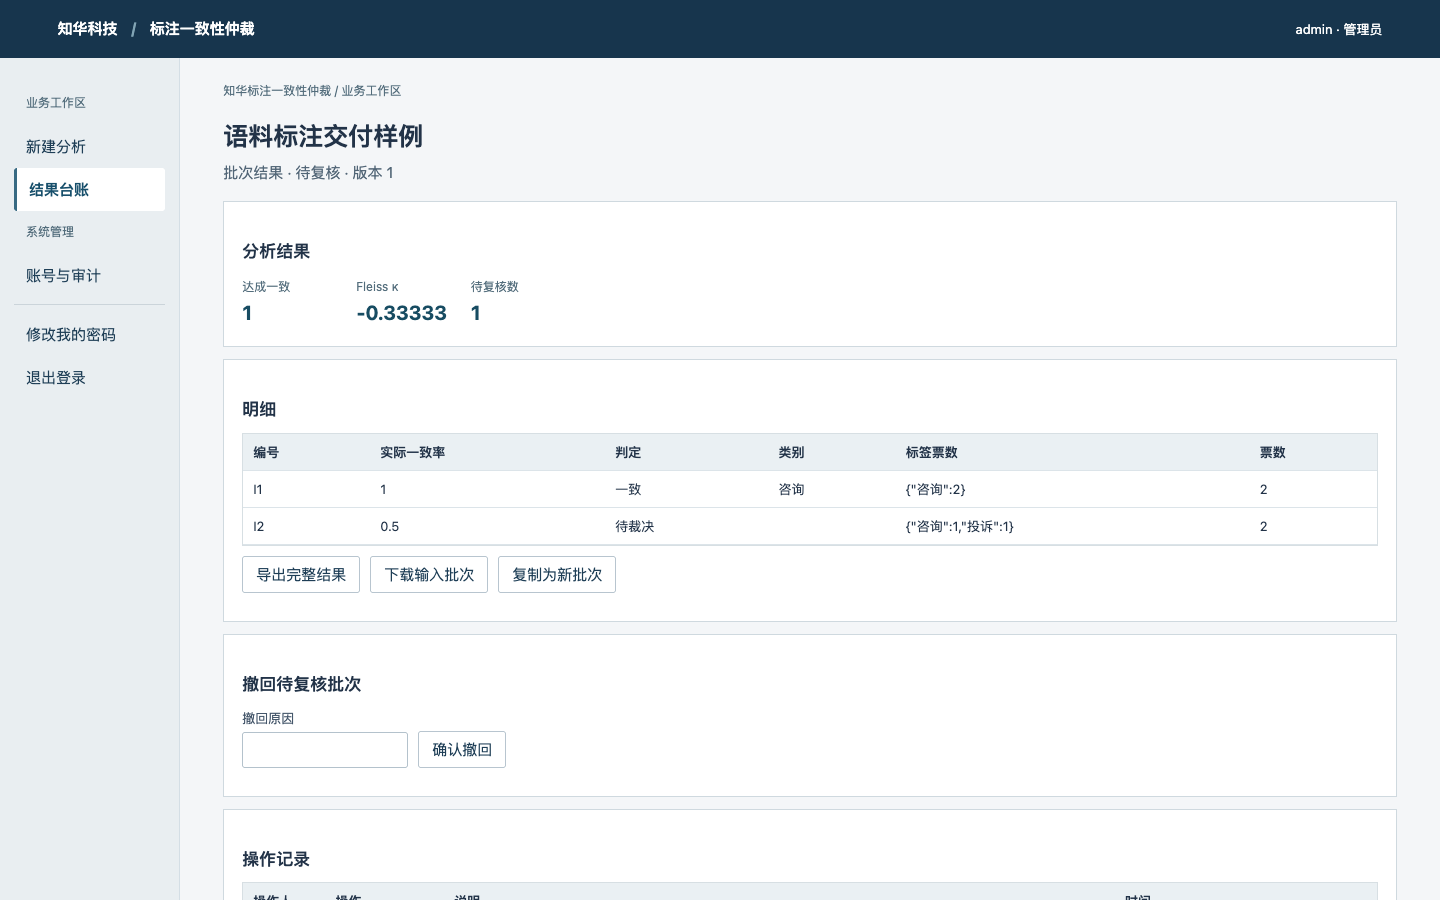
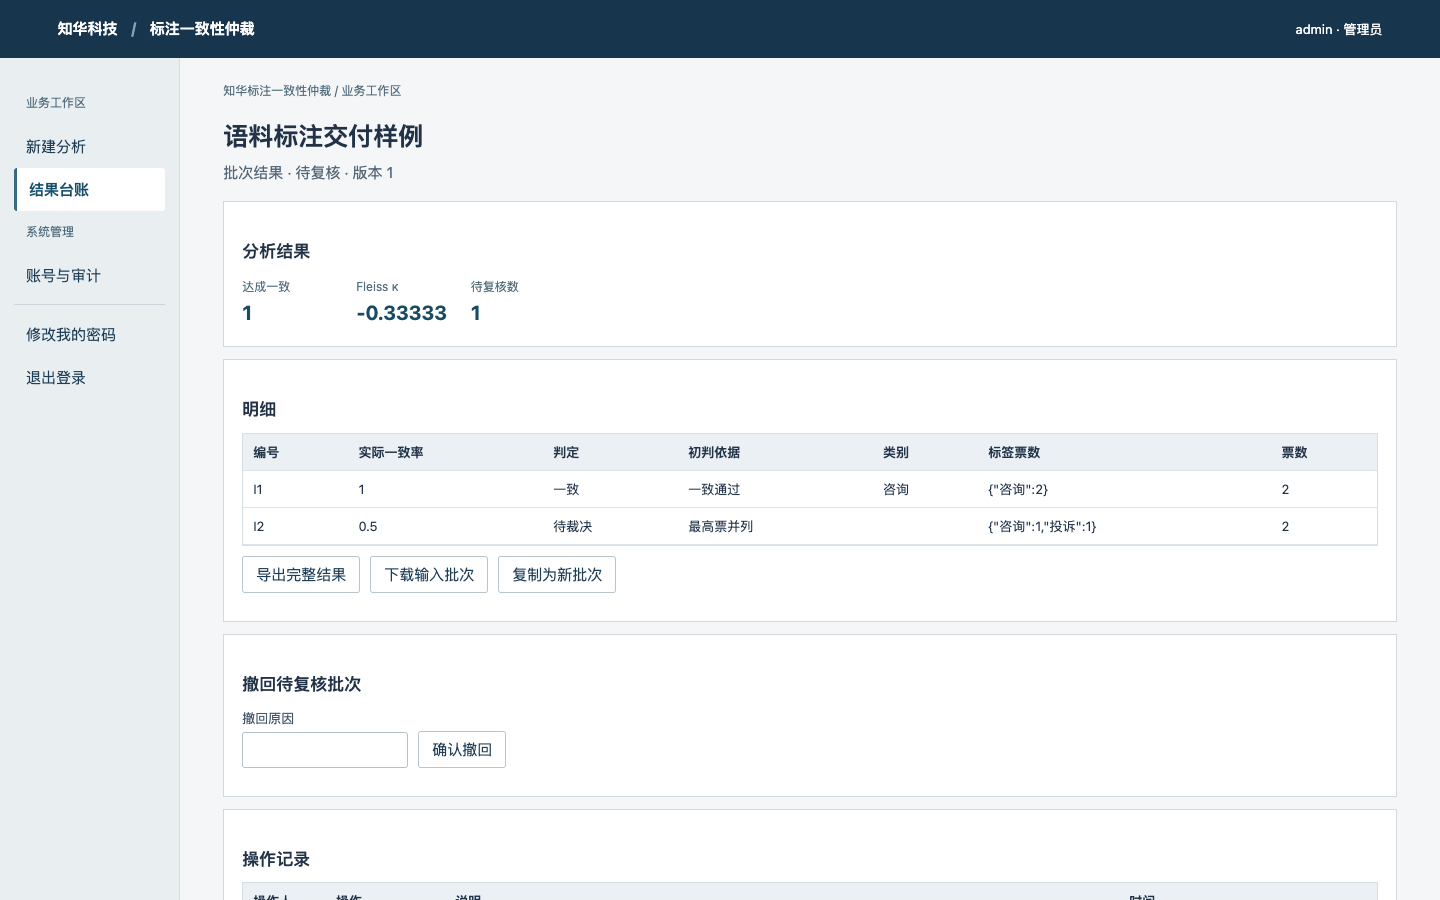
feat: add domain acceptance evidence and local startup diagnostics

diff --git a/frontend/app.js b/frontend/app.js
@@ -56,6 +56,7 @@ const labels = {
   context: "编排正文",
 };
 const resultLabels = {
+  initialReason: "初判依据",
   ...labels,
   ...{
     knownTokens: "词表命中数",
@@ -112,6 +113,10 @@ const resultLabels = {
   },
 };
 const choices = {
+  TOO_FEW: "票数不足",
+  TIE: "最高票并列",
+  BELOW_THRESHOLD: "未达一致率",
+  AGREED: "一致通过",
   KEEP: "保留",
   REVIEW_DUPLICATE: "待查重",
   CONSENSUS: "一致",
@@ -270,7 +275,7 @@ function table(parent, keys, rows, action) {
     for (const k of keys)
       line.insertCell().textContent =
         typeof row[k] === "string" &&
-        ["decision", "action", "reason", "split"].includes(k)
+        ["decision", "action", "reason", "split","reviewReason","capacityStatus","initialReason"].includes(k)
           ? choices[row[k]] || row[k]
           : fmt(row[k]);
     if (action) line.insertCell().append(action(row));

diff --git a/scripts/doctor.py b/scripts/doctor.py
@@ -1,0 +1,63 @@
+#!/usr/bin/env python3
+"""上海如静知华信息科技有限公司 · https://www.zhuatech.cn/
+商业授权或定制开发请微信添加微信号zhuatech或zhuatech2进行咨询。
+Optional preflight for a direct local launch; never initializes a database or changes persistent files.
+"""
+import os, re, shutil, socket, subprocess, sys
+from pathlib import Path
+
+ROOT = Path(__file__).resolve().parents[1]
+
+
+def main(args):
+    """Direct local launch preflight. 上海如静知华信息科技有限公司 · https://www.zhuatech.cn/
+    商业授权或定制开发请微信添加微信号zhuatech或zhuatech2进行咨询。
+    """
+    if args not in ([], ["--build"], ["--no-build"]):
+        print("用法：python3 scripts/doctor.py [--build|--no-build]")
+        return 2
+    jar = ROOT / "backend/target/app.jar"
+    build = args == ["--build"] or (not args and ((ROOT/".git").exists() or not jar.is_file()))
+    errors = []
+    home = os.environ.get("JAVA_HOME")
+    suffix = ".exe" if os.name == "nt" else ""
+    java = str(Path(home)/"bin"/("java"+suffix)) if home else shutil.which("java")
+    try:
+        command = subprocess.run([java or "java", "-XshowSettings:properties", "-version"], capture_output=True, text=True, timeout=12)
+        found = re.search(r"java\.specification\.version\s*=\s*(\d+)",command.stderr)
+        if command.returncode or not found or int(found[1]) < 21:
+            errors.append("需要 Java 21 或更新版本，请检查 JAVA_HOME。")
+    except (OSError, subprocess.TimeoutExpired):
+        errors.append("无法运行 Java，请先配置 JAVA_HOME。")
+    if build:
+        javac = str(Path(home)/"bin"/("javac"+suffix)) if home else shutil.which("javac")
+        if not javac or not os.access(javac,os.X_OK):
+            errors.append("源码构建需要完整 JDK，未找到 javac。")
+    elif not jar.is_file():
+        errors.append("没有可运行的 JAR，请先构建或使用免构建包。")
+    settings=(ROOT/"backend/src/main/resources/application.properties").read_text(encoding="utf8")
+    default=re.search(r"server\.port=\$\{PORT:(\d+)\}",settings)[1]
+    try:
+        port=int(os.environ.get("PORT",default))
+        if not 1 <= port <= 65535: raise ValueError()
+        address=os.environ.get("BIND_ADDRESS","127.0.0.1")
+        family,kind,proto,_,endpoint=socket.getaddrinfo(address,port,type=socket.SOCK_STREAM)[0]
+        with socket.socket(family,kind,proto) as probe:
+            probe.bind(endpoint)
+    except ValueError:
+        errors.append("PORT 须为 1 至 65535 的整数。")
+    except OSError:
+        errors.append("无法绑定监听地址：请检查 BIND_ADDRESS，或更换已被占用的 PORT。")
+    var=ROOT/"var"
+    storage=var if var.exists() else ROOT
+    if not storage.is_dir() or not os.access(storage,os.W_OK | os.X_OK):
+        errors.append("数据目录 var 不可创建或不可写，请检查解压目录权限。")
+    print("启动方式："+("源码构建" if build else "直接运行 JAR"))
+    for reason in errors:print("未通过："+reason)
+    if errors:return 1
+    print("本地前置检查通过。未连接数据库或下载依赖；实际运行仍以启动与登录为准。")
+    return 0
+
+
+if __name__=="__main__":
+    sys.exit(main(sys.argv[1:]))

diff --git a/scripts/smoke.py b/scripts/smoke.py
@@ -63,7 +63,13 @@ def smoke():
                 closed=call("/api/runs/"+one["id"]+"/withdraw","POST",{"version":again["revision"],"note":"自检完成，保留记录"},auth())
                 assert closed["stage"]=="WITHDRAWN" and closed["result"]==one["result"]
                 assert call("/api/runs?state=WITHDRAWN&scope=mine",token=auth())["total"]==1
-                print("PASS: packaged startup, static UI, login, execution, idempotency, disk restart and audited withdrawal")
+                fixture=json.loads((ROOT/"examples/acceptance.json").read_text(encoding="utf8"))
+                result=call("/api/runs","POST",fixture,auth(),"domain-acceptance")["result"]
+                expected=json.loads("{\"needsReview\":1}")
+                assert all(k in result["metrics"] and result["metrics"][k]==v for k,v in expected.items()),result["metrics"]
+                evidence=json.loads("{\"id\":\"I\",\"initialReason\":\"TIE\"}")
+                assert any(all(k in row and row[k]==v for k,v in evidence.items()) for row in result["rows"]),result["rows"]
+                print("PASS: packaged startup, login, execution, idempotency, restart, withdrawal and project-specific acceptance")
             except BaseException:
                 log.flush();log.seek(0);print(log.read()[-3500:],file=sys.stderr);raise
             finally:stop(p)

diff --git a/backend/src/test/java/cn/zhuatech/labelcouncil/AlgorithmTest.java b/backend/src/test/java/cn/zhuatech/labelcouncil/AlgorithmTest.java
@@ -37,6 +37,17 @@ class AlgorithmTest {
 
   /** 上海如静知华信息科技有限公司 · https://www.zhuatech.cn/ · 商业授权或定制开发请微信添加微信号zhuatech或zhuatech2进行咨询。 */
   @Test
+  void enterpriseEvidenceAndBoundaries() {
+    var result=Algorithm.compute(Map.of("minVotes",2,"agreement",0.8),List.of(
+        Map.of("id","a","annotator","1","label","X"),Map.of("id","b","annotator","1","label","X"),
+        Map.of("id","b","annotator","2","label","Y"),Map.of("id","c","annotator","1","label","X"),
+        Map.of("id","c","annotator","2","label","X"),Map.of("id","c","annotator","3","label","Y")));
+    var rows=(List<Map<String,Object>>)result.get("rows");
+    assertEquals(List.of("TOO_FEW","TIE","BELOW_THRESHOLD"),rows.stream().map(r->r.get("initialReason")).toList());
+  }
+
+  /** 上海如静知华信息科技有限公司 · https://www.zhuatech.cn/ · 商业授权或定制开发请微信添加微信号zhuatech或zhuatech2进行咨询。 */
+  @Test
   void knownResults() {
     var result = Algorithm.compute(cfg, data);
     var m = (Map<String, Object>) result.get("metrics");

diff --git a/backend/src/main/java/cn/zhuatech/labelcouncil/Algorithm.java b/backend/src/main/java/cn/zhuatech/labelcouncil/Algorithm.java
@@ -60,7 +60,8 @@ final class Algorithm {
               "label",
               winning,
               "decision",
-              pass ? "CONSENSUS" : "REVIEW"));
+              pass ? "CONSENSUS" : "REVIEW",
+              "initialReason", count < minVotes ? "TOO_FEW" : tie ? "TIE" : !pass ? "BELOW_THRESHOLD" : "AGREED"));
     }
     double pe =
         totals.values().stream().mapToDouble(v -> Math.pow((double) v / rows.size(), 2)).sum();

diff --git a/README.md b/README.md
@@ -20,7 +20,15 @@
 
 仅处理单标签分类；未达票数/一致率的样本保留待人工复核，不冒充金标准。 工作台带可替换的样例输入。生成的结果可保存、导出、由另一账号复核，不会自动操作外部系统。
 
+## 1.3 · 标注仲裁分歧依据
+
+每个样本保留初判原因：票数不足、并列、未达一致率或一致通过；条件重叠时按此顺序解释，裁决后仍保留初判依据。 已保存批次保持原快照，新口径用于新建或复制后重新运行的批次。
+
+[可直接导入的 1.3 专项验收样本](examples/acceptance.json) · 用免构建包执行 `python3 scripts/smoke.py` 可在临时库自动核对期望结果，不操作现有业务库。
+
 ## 本地启动
+
+可选：先执行 `python3 scripts/doctor.py` 检查 Java、端口和本地数据目录，检查不会初始化数据库。直接启动不要求安装 Python。
 
 **1.2 更新：** 导入 JSON 时会指出错误行和字段，不会悄悄忽略多余的列。误提交的批次，在其他人复核前可由提交人填写原因并撤回；原结果与操作记录会保留，需要修正时可复制为新批次。MySQL 下同时重试同一笔提交会返回同一个批次。
 

diff --git a/docs/TESTING.md b/docs/TESTING.md
@@ -5,6 +5,10 @@
 
 复算平票、一致票及 κ；拒绝重复投票。分母为零返回空 κ。通过接口验证分歧批次不能直接通过、非法裁决标签拒绝、独立审核人逐项裁决后才能发布。
 
+## 1.3 专项回归
+
+标注仲裁分歧依据：每个样本保留初判原因：票数不足、并列、未达一致率或一致通过；条件重叠时按此顺序解释，裁决后仍保留初判依据。 运行 AlgorithmTest.enterpriseEvidenceAndBoundaries 复核边界；全套共 14 条 Java 测试，另有 3 条前端导入测试。
+
 ## 1.2 新增回归
 
 在以下 1.1 的基线之上，新增两条 HTTP 测试：只允许作者按正确版本撤回、非法撤回不改变数据；撤回与复核并发时只有一笔成功。共 13 条 Java 测试。维护者可另用 Node 18+ 运行 `node --test scripts/import.test.mjs`，验证本项目导入样本、错误行、类型和未知字段。正式发布另从干净目录启动，MySQL 实测六个并发重试只生成一个结果。

diff --git a/README.en.md b/README.en.md
@@ -4,7 +4,13 @@
 
 Collect independent votes, identify ties and disagreements, and calculate Fleiss’ kappa when applicable. A different reviewer must choose an observed label for every unresolved item before releasing the adjudicated result.
 
+## 1.3: business acceptance
+
+Record and retain the original voting disposition: insufficient votes, tied leaders, below threshold or consensus. Previously saved results remain unchanged. Re-run a copy to apply the new calculation.
+
 ## Run locally
+
+Optional: run `python3 scripts/doctor.py` to check Java, the local bind address/port, and data directory permissions before launching. Python is not required to run the workbench.
 
 **1.2 update:** JSON imports identify the offending row or field instead of silently dropping unknown columns. Authors may withdraw a pending batch with a reason, retain its input and result, and copy it for correction. Concurrent retries with the same submission key and payload resolve to a single record on MySQL.
 
